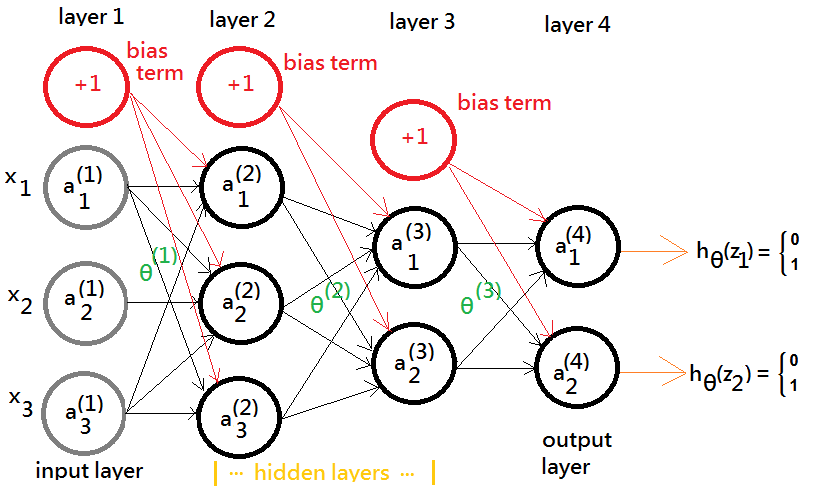
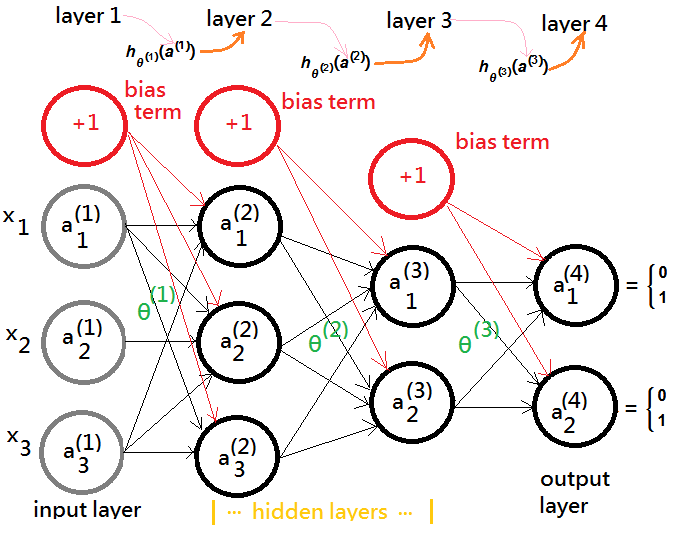
update  _posts/2017-11-19-nn-basic-topology.md

Changed region(s): [[0.0, 0.0, 0.9926, 0.9776], [0.062, 0.0, 0.1861, 0.0611], [0.5894, 0.3055, 0.6204, 0.336]]

diff --git a/_posts/2017-11-19-nn-basic-topology.md b/_posts/2017-11-19-nn-basic-topology.md
@@ -17,14 +17,14 @@ the case that jet engines could make human fly but human couldn't fly like a bir
 
 ![]({{ site.github.repo }}{{ site.baseurl }}/images/pic/2017-11-19-nn-basic-topology-model.png "model representation")
  
->The model representation graph exhibits that there exists an input layer to receive the external data, an output layer to generate the outcome value, some hidden layes(in this example, layer 2, 3) in between the input and the output layer.  One step further, the model design transfer the output layer outcome to the final preocessing function, usually, by means of the logistic regression to generalize the real identification result.  
+>The model representation graph exhibits that there exists an input layer to receive the external data, an output layer to generate the outcome value, some hidden layes(in this example, layer 2, 3) in between the input and the output layer.  
 >We can have the model more generalized in another graph.  
 
 ![]({{ site.github.repo }}{{ site.baseurl }}/images/pic/2017-11-19-nn-basic-topology-model-generalized.png "model representation with bias term")
 
->&#10112;you can think of each distinct layer(<font color="blue">except for the input layer</font>) in the neural network the individual linear regression model, which (<font color="red">takes an intercept expressed by the bias term by statistics nature design</font>.  Specific cares for gradient descendent during backward propagation is mandatory, and the bias term is of no need for regularization!!   
+>&#10112;you can think of each distinct layer(<font color="blue">except for the input layer</font>) in the neural network the individual linear regression model, which (<font color="red">takes an intercept expressed by the bias term by statistics nature design</font>).  Specific cares for gradient descendent during backward propagation is mandatory, and the bias term is of no need for regularization!!   
 >&#10113;the <font color="green">$\theta^{(j)}$</font> is <font color="green">the weighting matrix</font>, controlling the function mapping from layer $j$ to layer $j+1$.  
->&#10114;the <font color="red">$a_i^{(j)}$</font> is to denote the $i$-th (<font color="red">activation function</font> at layer $j$, wherein, it takes input from layer $j-1$ and make advanced processing at its layer, output it, in turns becoming the input data to next layer $j+1$.  
+>&#10114;the <font color="red">$a_i^{(j)}$</font> is used to denote the $i$-th <font color="red">activation function</font> at layer $j$, wherein, it takes output from layer $j-1$ as its input and make advanced processing at its layer, output it, in turns becoming the input data to next layer $j+1$.  
 >&#10115;suppose we have the $a_1^{(1)}$, $a_2^{(1)}$,..., $a_n^{(1)}$ as the input data $x\in R^n$.  
 >&#10116;the output from layer $j$(the activation output at layer j) would be mapped to layer $j+1$ by <font color="green">$\theta^{(j)}$</font> as its input.  
 
